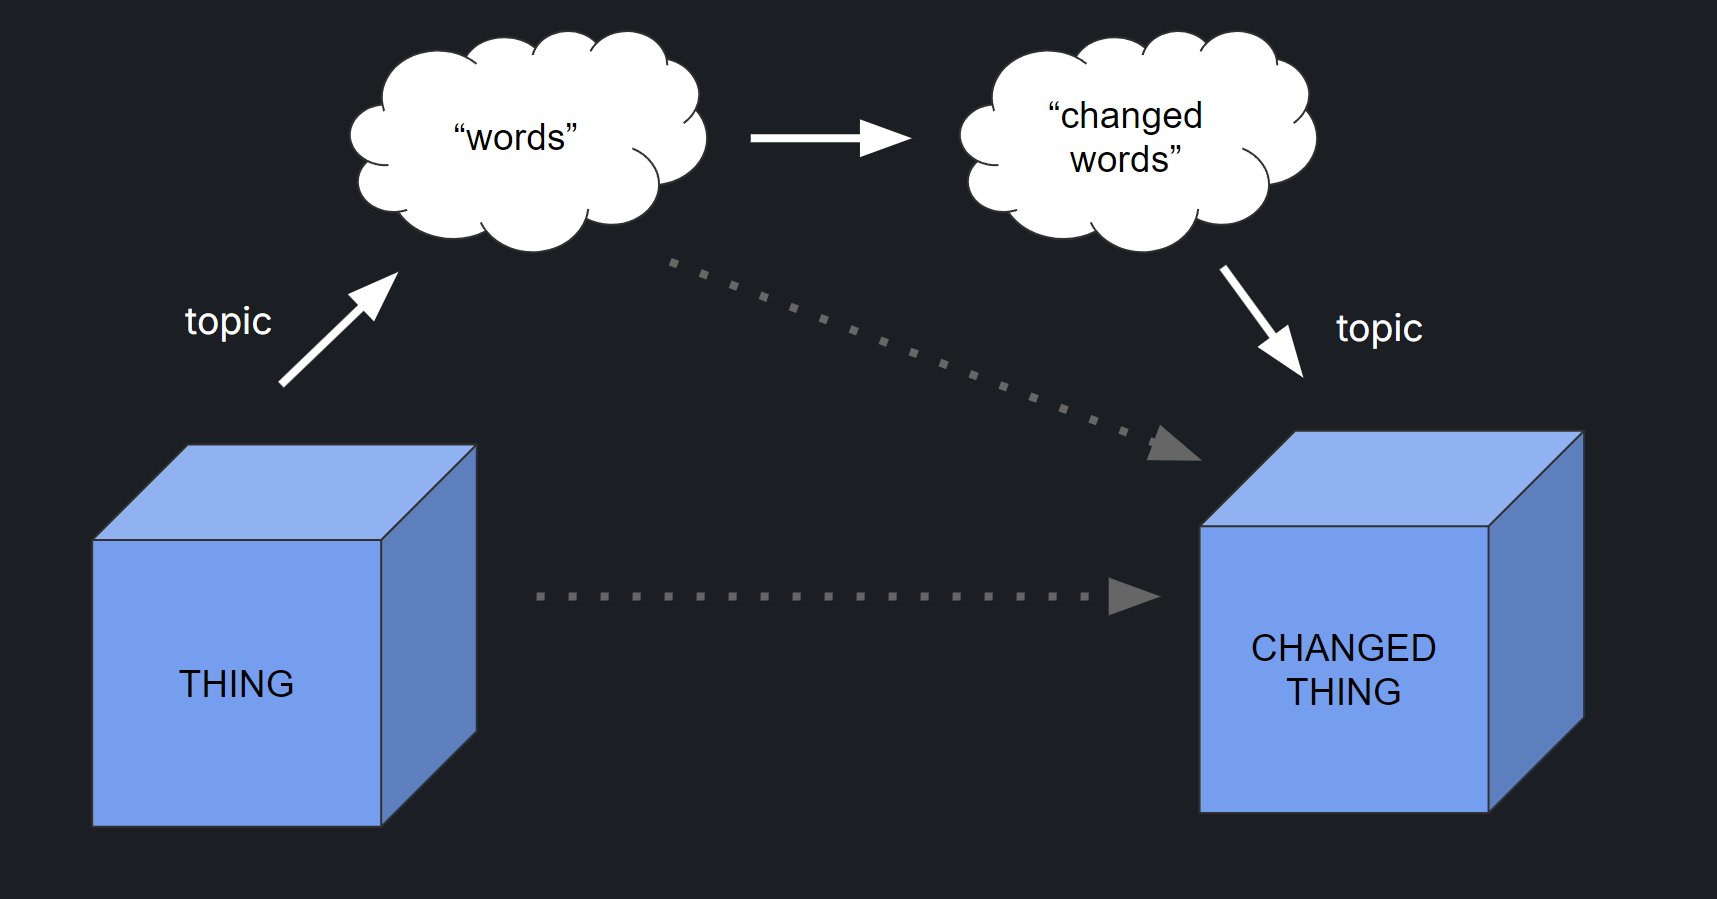
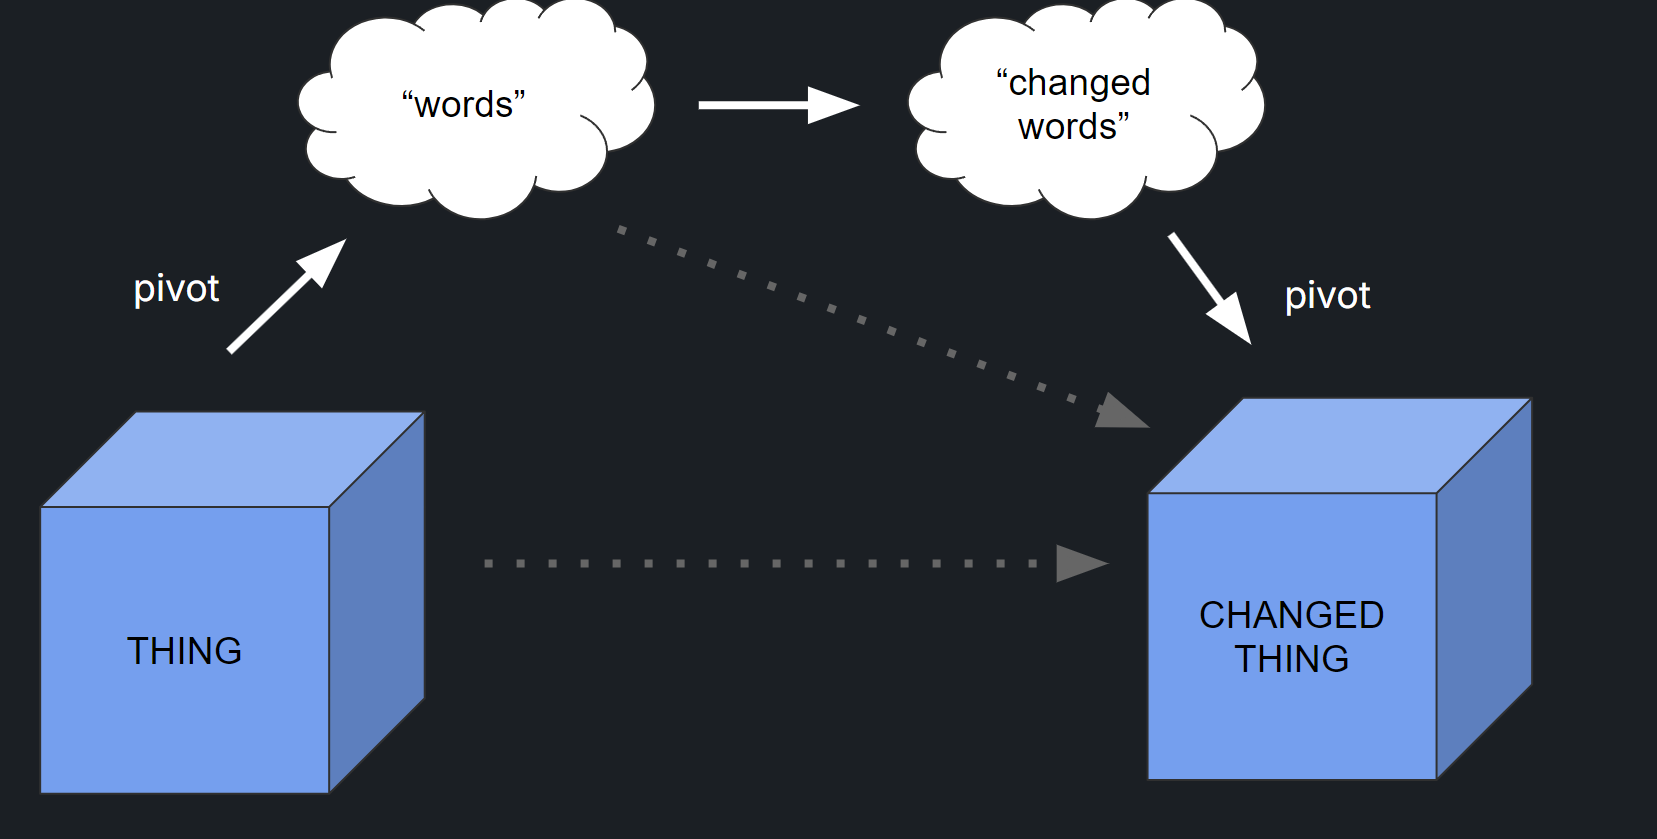
cut2

diff --git a/docs/report.md b/docs/report.md
@@ -33,7 +33,7 @@ Bibtex:
 
 Image:
 
-![image](../images/concept3.png)
+![image](../images/concept.png)
 
 ## Background
 
@@ -82,11 +82,9 @@ The above discussion assumes words are primary. However what if we start from th
 
 EEA revolves around the notion of _ephemeral_, _editable_, _partial_ specifications. The paradigm is to make code permanent and specifications ephemeral: users can edit either the code or ephemeral specs, which are essentially code summaries that can be generated, modified, and discarded as needed. If the user edits an ephemeral specification, the toolchain will offer a code change corresponding to the spec change. The user can then accept or reject the code change, and the toolchain will apply the change to the codebase.
 
-When extracting the specification, the extraction is done with respect to a "pivot" - a phrase, words or text that is used as a reference for the extraction. This pivot can be anything, but in practice we have explored many kinds of pivots, some of which we will catalogue in the subsequent sections.
+When extracting the specification, the extraction is done with respect to a "pivot" or "topic" - a phrase, words or text that is used as a reference for the extraction. This pivot can be anything, but in practice we have explored many kinds of pivots, some of which we will catalogue in the subsequent sections.
 
-![image](../images/concept.png)
-
-![image](../images/concept2.png)
+![image](../images/concept3.png)
 
 ## Formulation as Functions
 
